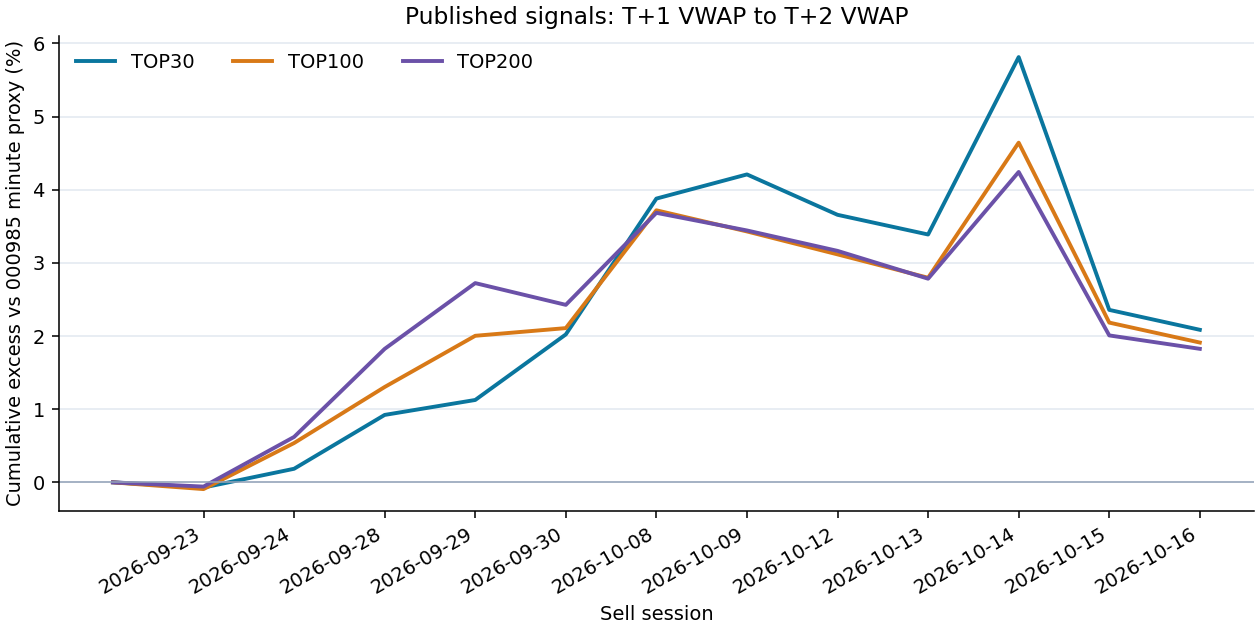
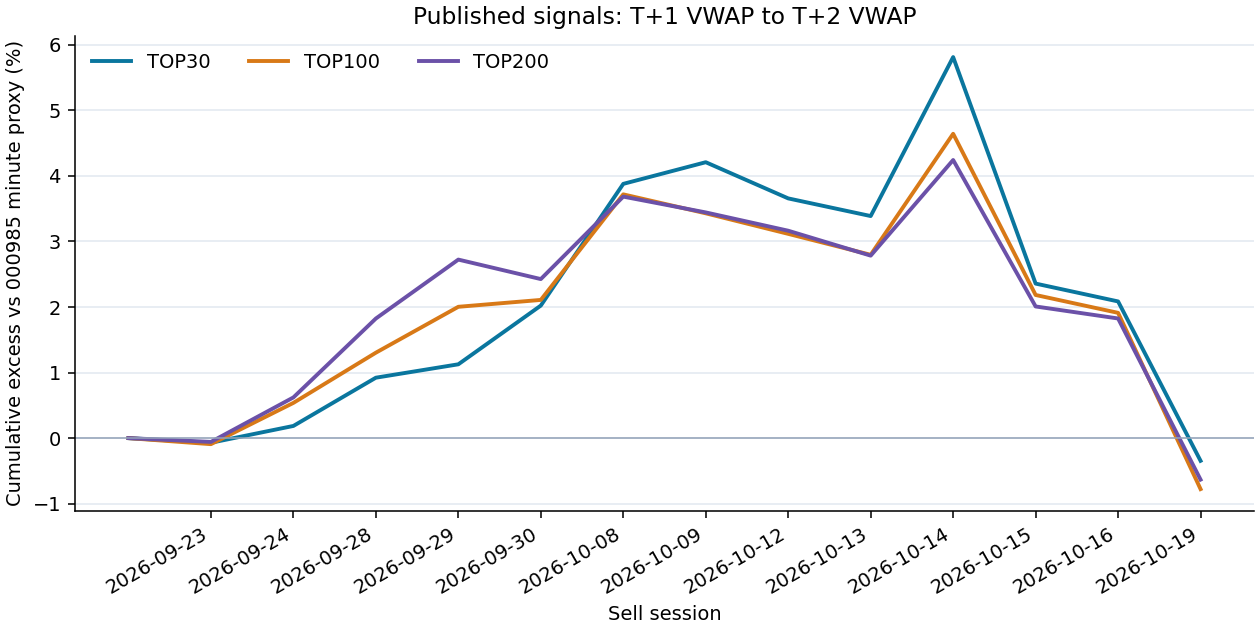
Update published signal performance through 2026-10-19

diff --git a/README.md b/README.md
@@ -17,13 +17,13 @@ CSV 编码为 UTF-8 BOM，按 `signal` 降序排列。
 <!-- PUBLIC_PERFORMANCE_START -->
 ## 已发布信号的历史表现
 
-仅统计本仓库 `signals/YYYY-MM-DD.csv` 已上传且买卖两日行情均完整的信号；截至 **2026-10-16**，共有 **12** 个已完成信号日，另有 **2** 个待结算或数据未齐。样本很短，暂无统计显著性结论。
+仅统计本仓库 `signals/YYYY-MM-DD.csv` 已上传且买卖两日行情均完整的信号；截至 **2026-10-19**，共有 **13** 个已完成信号日，另有 **2** 个待结算或数据未齐。样本很短，暂无统计显著性结论。
 
 | 组合 | 已完成信号日 | 组合累计收益 | 000985同期收益 | 累计超额 |
 |---|---:|---:|---:|---:|
-| TOP30 | 12 | -8.82% | -10.68% | +2.09% |
-| TOP100 | 12 | -8.97% | -10.68% | +1.91% |
-| TOP200 | 12 | -9.05% | -10.68% | +1.83% |
+| TOP30 | 13 | -11.70% | -11.40% | -0.35% |
+| TOP100 | 13 | -12.09% | -11.40% | -0.78% |
+| TOP200 | 13 | -11.96% | -11.40% | -0.63% |
 
 ![TOP30、TOP100、TOP200 累计超额净值](performance/excess_nav.png)
 
@@ -33,7 +33,6 @@ CSV 编码为 UTF-8 BOM，按 `signal` 降序排列。
 
 | 信号日 | 卖出日 | TOP30 | TOP100 | TOP200 |
 |---|---|---:|---:|---:|
-| 2026-09-23 | 2026-09-28 | +71.35 | +73.99 | +116.18 |
 | 2026-09-24 | 2026-09-29 | +20.15 | +68.78 | +87.89 |
 | 2026-09-28 | 2026-09-30 | +88.88 | +10.33 | -29.04 |
 | 2026-09-29 | 2026-10-08 | +180.63 | +156.52 | +121.89 |
@@ -43,6 +42,7 @@ CSV 编码为 UTF-8 BOM，按 `signal` 降序排列。
 | 2026-10-12 | 2026-10-14 | +235.12 | +180.05 | +142.29 |
 | 2026-10-13 | 2026-10-15 | -316.98 | -228.14 | -208.05 |
 | 2026-10-14 | 2026-10-16 | -26.70 | -26.79 | -18.05 |
+| 2026-10-15 | 2026-10-19 | -236.30 | -261.74 | -239.53 |
 
 ![TOP30、TOP100、TOP200 逐日超额](performance/daily_excess.png)
 
